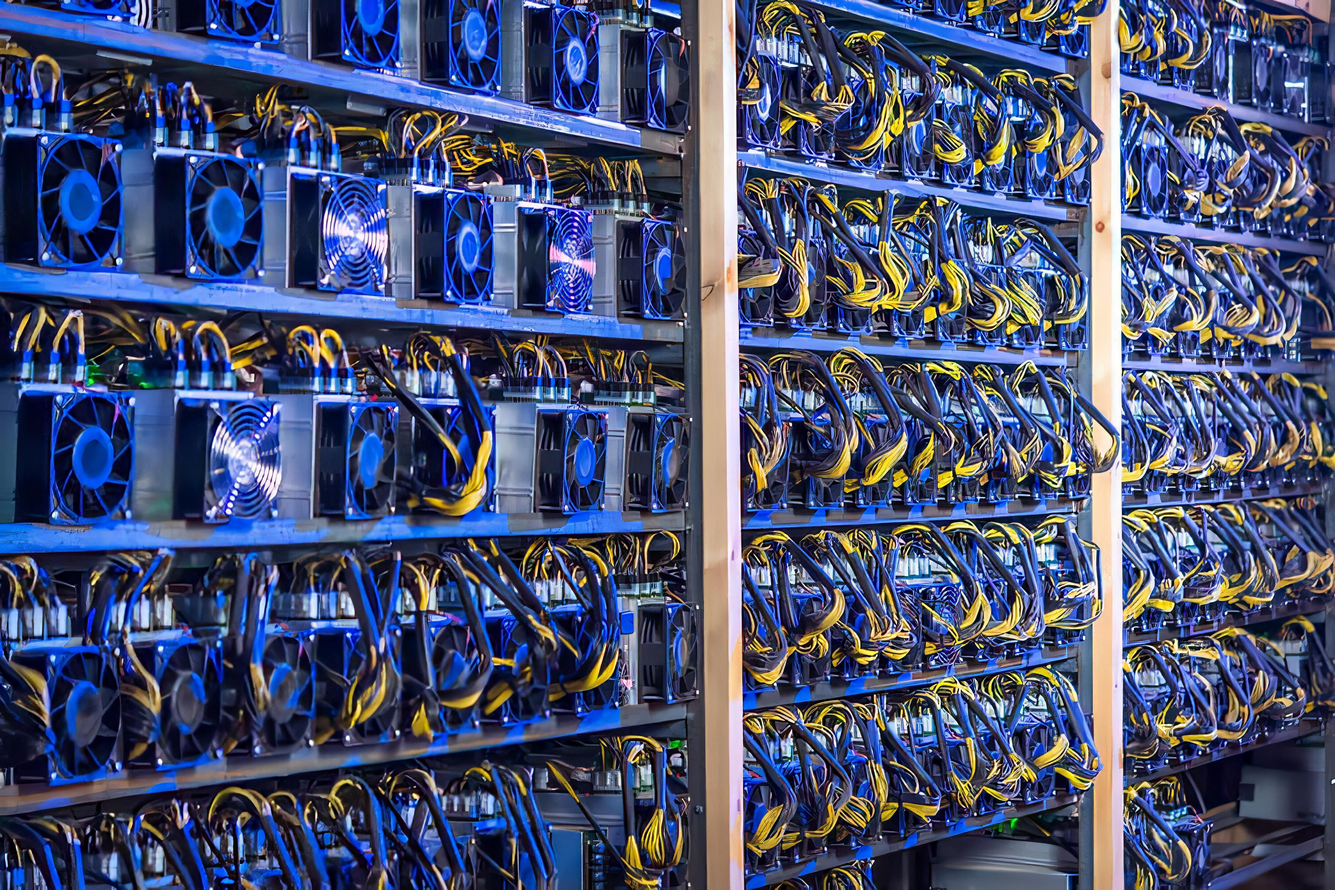
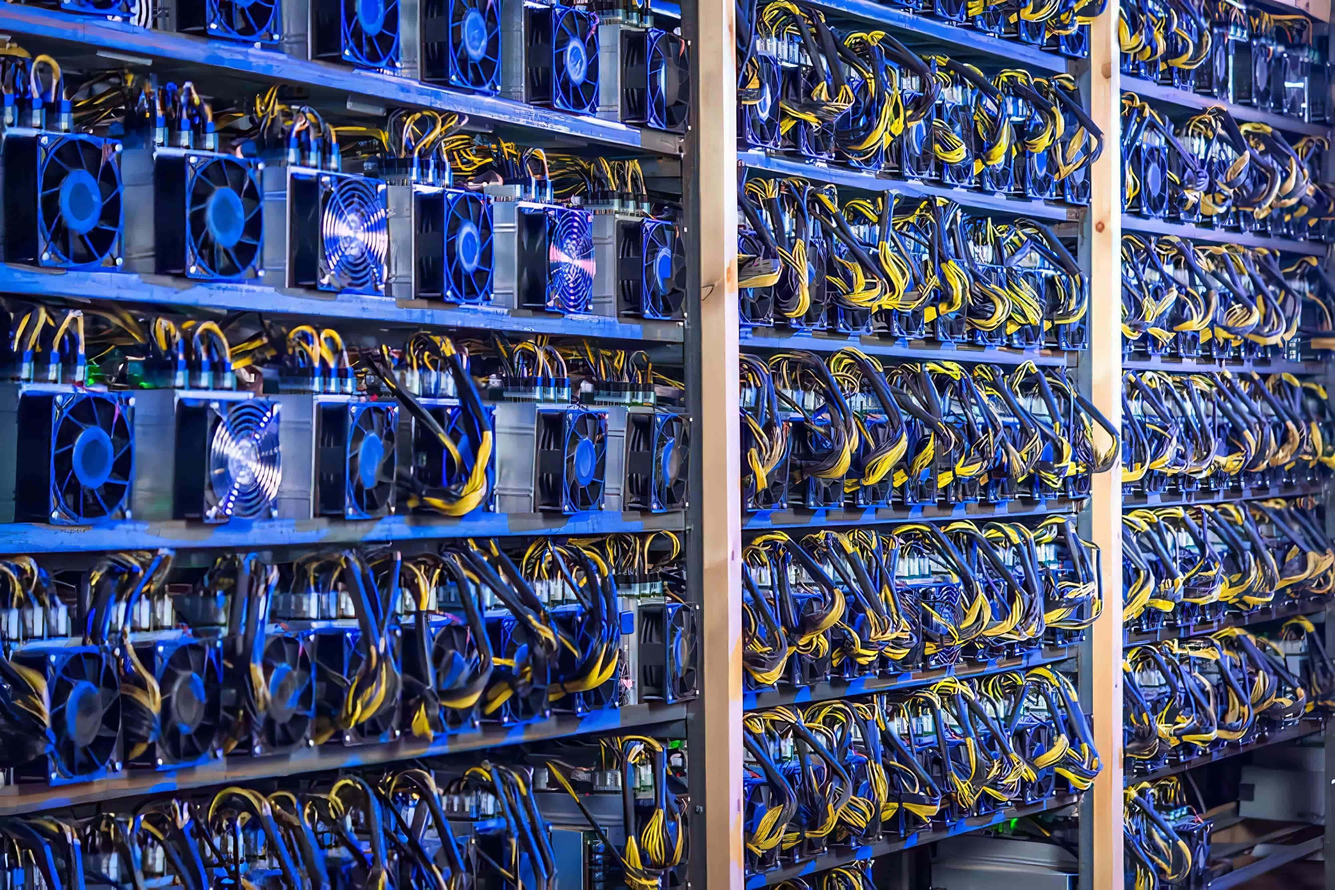
starting seo optimization

diff --git a/ru/main.html b/ru/main.html
@@ -311,7 +311,7 @@
                             <img src="../img/download.svg" alt=""> <a href="https://mega.nz/file/VxpiDRYI#MHCdL2W2tn2Rc2MX4BAzrkhdLPzXQz7Dcn7WiBYBrpA" target="__blank">Antminer S17-S17PRO</a>
                           </div>
                         </div>
-                        <div class="col-lg-6 col-md-6 col-sm-12 device-img text-right"><img src="../img/devices/s17.png" alt=""></div>
+                        <div class="col-lg-6 col-md-6 col-sm-12 device-img text-right"><img src="../img/devices/s17.jpg" alt=""></div>
                       </div>
                     </div>
                   </div>
@@ -434,7 +434,7 @@
                           </div>
                         
                         </div>
-                        <div class="col-lg-6 col-md-6 col-sm-12 device-img text-right"><img src="../img/devices/s9.png" alt=""></div>
+                        <div class="col-lg-6 col-md-6 col-sm-12 device-img text-right"><img src="../img/devices/s9.jpg" alt=""></div>
                       </div>
                     </div>
                   </div>
@@ -476,7 +476,7 @@
                             <img src="../img/download.svg" alt=""> <a href="https://mega.nz/file/E0hiBBzY#aFcNwVr8XwvS93q_g7MKYS2i7XPpB3ZJT2WIwpCWOEY" target="__blank">Antminer T17E</a>
                           </div>
                         </div>
-                        <div class="col-lg-6 col-md-6 col-sm-12 device-img text-right"><img src="../img/devices/t17.png" alt=""></div>
+                        <div class="col-lg-6 col-md-6 col-sm-12 device-img text-right"><img src="../img/devices/t17.jpg" alt=""></div>
                       </div>
                     </div>
                   </div>
@@ -601,7 +601,7 @@
                             <img src="../img/download.svg" alt=""> <a href="https://mega.nz/file/MxBhUQCY#hcT-ucmuaysGnsVPP8VpFhyOP1Wch2IcNbGNY1J992c" target="__blank">Antminer T17</a>
                           </div>
                         </div>
-                        <div class="col-lg-6 col-md-6 col-sm-12 device-img text-right"><img src="../img/devices/t9+.png" alt=""></div>
+                        <div class="col-lg-6 col-md-6 col-sm-12 device-img text-right"><img src="../img/devices/t9+.jpg" alt=""></div>
                       </div>
                     </div>
                   </div>
@@ -679,7 +679,7 @@
                             <img src="../img/download.svg" alt=""> <a href="https://mega.nz/file/Mw4GFJqS#3m3XvWEK0p1N2B0x9u-ZoAzwVMGxAjt0LW__zmDsEls" target="__blank">Antminer L3+ / L3++</a>
                           </div>
                         </div>
-                        <div class="col-lg-6 col-md-6 col-sm-12 device-img text-right"><img src="../img/devices/L3+.png" alt=""></div>
+                        <div class="col-lg-6 col-md-6 col-sm-12 device-img text-right"><img src="../img/devices/L3+.jpg" alt=""></div>
                       </div>
                     </div>
                   </div>
@@ -697,7 +697,7 @@
                 <p class="text-center">© 2017-2021 miningsofwaresolutions.com</br>Все права защищены.</p>
               </div>
               <div class="col-lg-4 col-sm-12  tg-text text-center">
-                <a href=""><img src="../img/telegram.png" alt="">Наш телеграм чат</a>
+                <a href=""><img src="../img/telegram.jpg" alt="">Наш телеграм чат</a>
               </div>
             </div>
           </div>

diff --git a/index.html b/index.html
@@ -320,7 +320,7 @@
                             <img src="img/download.svg" alt=""> <a href="https://mega.nz/file/VxpiDRYI#MHCdL2W2tn2Rc2MX4BAzrkhdLPzXQz7Dcn7WiBYBrpA" target="__blank">Antminer S17-S17PRO</a>
                           </div>
                         </div>
-                        <div class="col-lg-6 col-md-6 col-sm-12 device-img text-right"><img src="img/devices/s17.png" alt=""></div>
+                        <div class="col-lg-6 col-md-6 col-sm-12 device-img text-right"><img src="img/devices/s17.jpg" alt=""></div>
                       </div>
                     </div>
                   </div>
@@ -443,7 +443,7 @@
                           </div>
                         
                         </div>
-                        <div class="col-lg-6 col-md-6 col-sm-12 device-img text-right"><img src="img/devices/s9.png" alt=""></div>
+                        <div class="col-lg-6 col-md-6 col-sm-12 device-img text-right"><img src="img/devices/s9.jpg" alt=""></div>
                       </div>
                     </div>
                   </div>
@@ -485,7 +485,7 @@
                             <img src="img/download.svg" alt=""> <a href="https://mega.nz/file/E0hiBBzY#aFcNwVr8XwvS93q_g7MKYS2i7XPpB3ZJT2WIwpCWOEY" target="__blank">Antminer T17E</a>
                           </div>
                         </div>
-                        <div class="col-lg-6 col-md-6 col-sm-12 device-img text-right"><img src="img/devices/t17.png" alt=""></div>
+                        <div class="col-lg-6 col-md-6 col-sm-12 device-img text-right"><img src="img/devices/t17.jpg" alt=""></div>
                       </div>
                     </div>
                   </div>
@@ -610,7 +610,7 @@
                             <img src="img/download.svg" alt=""> <a href="https://mega.nz/file/MxBhUQCY#hcT-ucmuaysGnsVPP8VpFhyOP1Wch2IcNbGNY1J992c" target="__blank">Antminer T17</a>
                           </div>
                         </div>
-                        <div class="col-lg-6 col-md-6 col-sm-12 device-img text-right"><img src="img/devices/t9+.png" alt=""></div>
+                        <div class="col-lg-6 col-md-6 col-sm-12 device-img text-right"><img src="img/devices/t9+.jpg" alt=""></div>
                       </div>
                     </div>
                   </div>
@@ -688,7 +688,7 @@
                             <img src="img/download.svg" alt=""> <a href="https://mega.nz/file/Mw4GFJqS#3m3XvWEK0p1N2B0x9u-ZoAzwVMGxAjt0LW__zmDsEls" target="__blank">Antminer L3+ / L3++</a>
                           </div>
                         </div>
-                        <div class="col-lg-6 col-md-6 col-sm-12 device-img text-right"><img src="img/devices/L3+.png" alt=""></div>
+                        <div class="col-lg-6 col-md-6 col-sm-12 device-img text-right"><img src="img/devices/L3+.jpg" alt=""></div>
                       </div>
                     </div>
                   </div>
@@ -706,7 +706,7 @@
                 <p class="text-center">© 2017-2021 miningsofwaresolutions.com</br>All rights are reserved.</p>
               </div>
               <div class="col-lg-4 col-sm-12  tg-text text-center">
-                <a href=""><img src="img/telegram.png" alt="">Our official telegram chat</a>
+                <a href=""><img src="img/telegram.jpg" alt="">Our official telegram chat</a>
               </div>
             </div>
           </div>

diff --git a/css/style.css b/css/style.css
@@ -1,22 +1,29 @@
 @font-face {
     font-family: Roboto-Light; /* Имя шрифта */
-    src: url(../fonts/Roboto-Light.ttf); /* Путь к файлу со шрифтом */
-   }
-	a, p,span  {
-    font-family: Roboto-Light;
-   }
+    src: url('../fonts/Roboto-Light.ttf'); /* Путь к файлу со шрифтом */
+    font-weight: lighter;
+    font-style: normal;
+    font-display: swap;   
+}
+	
 @font-face {
-    font-family: Roboto-Regular; /* Имя шрифта */
-    src: url(../fonts/Roboto-Regular.ttf); /* Путь к файлу со шрифтом */
-   }
-	h1,h2,h3,h4  {
-    font-family: Roboto-Regular;
-   }
+    font-family: Roboto-Regular; 
+    src: url('../fonts/Roboto-Regular.ttf'); 
+    font-weight: normal;
+    font-style: normal;
+    font-display: swap;   
+}
+	
 
 @import url("https://fonts.googleapis.com/css?family=Open+Sans:700");
 
 /* Reset */
-
+h1,h2,h3,h4  {
+    font-family: Roboto-Regular;
+}
+a, p,span  {
+    font-family: Roboto-Light;
+}
 .navbar-nav a {
 	text-decoration: none;
 }
